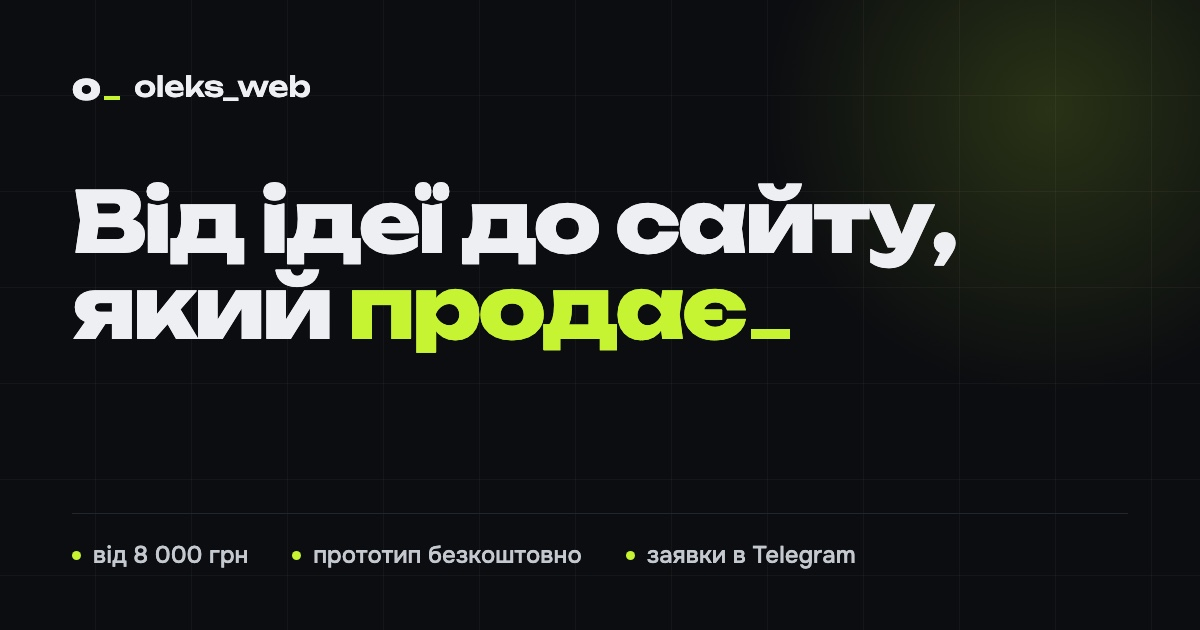
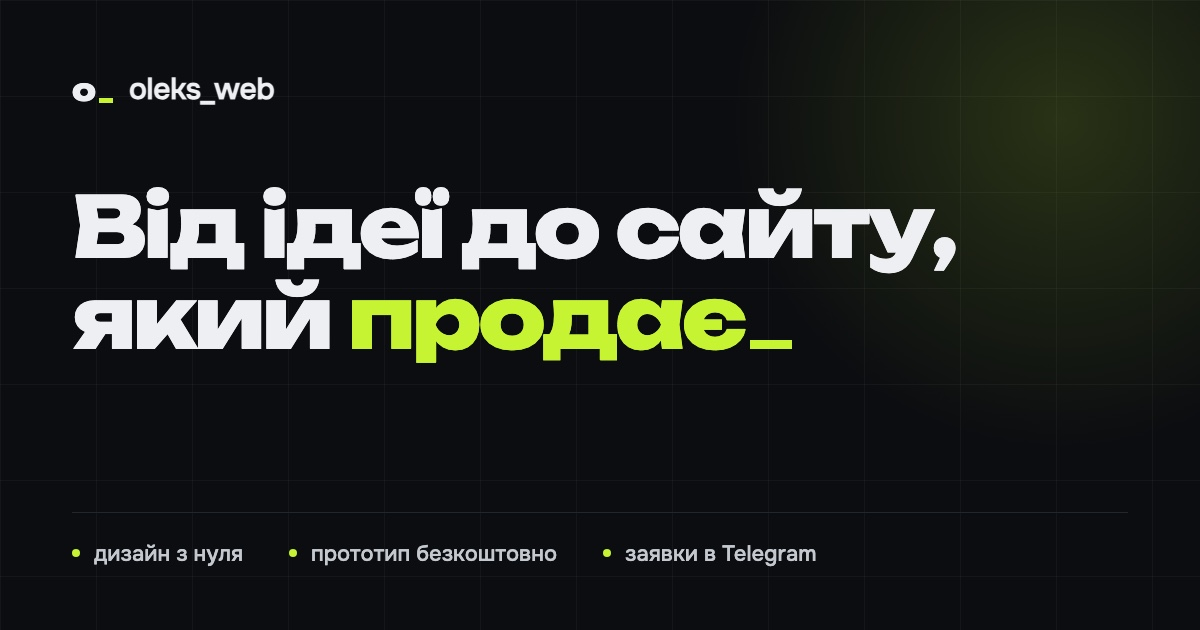
Нові ціни: лендинг від 11 000, багатосторінковий від 16 000, складний від 20 000, бот від 5 000; склад під кожен тариф, без ціни в hero і прев'ю

diff --git a/public/index.html b/public/index.html
@@ -54,7 +54,7 @@
         <a href="https://t.me/LysOleksandr" data-tg="hero" target="_blank" rel="noopener" class="btn">Отримати прототип безкоштовно</a>
       </div>
     </div>
-    <div class="meta reveal d2" data-r><ul class="hfacts"><li>від 8 000 грн</li><li>прототип за 1–3 дні — безкоштовно</li><li>заявки одразу у ваш Telegram</li></ul><span>гортайте ↓</span></div>
+    <div class="meta reveal d2" data-r><ul class="hfacts"><li>дизайн з нуля під ваш бізнес</li><li>прототип за 1–3 дні — безкоштовно</li><li>заявки одразу у ваш Telegram</li></ul><span>гортайте ↓</span></div>
   </section>
 
   <!-- ============ РОБОТИ ============ -->
@@ -151,7 +151,7 @@
       <h2 class="h2">Скільки коштує</h2>
     </div>
 
-    <div class="calc">
+    <div class="calc" data-type="landing">
       <div class="calc-opts">
         <p class="c-label">Що потрібно?</p>
         <div class="seg" role="radiogroup" aria-label="Тип сайту">
@@ -160,29 +160,36 @@
             <span class="o-d">Одна сторінка, яка веде до заявки. Для послуги, акції чи запуску.</span>
           </button>
           <button class="opt" type="button" role="radio" aria-checked="false" data-type="multi">
-            <span class="dot"></span><b>Багатосторінковий сайт</b>
-            <span class="o-d">Послуги, ціни, кейси, контакти — на окремих сторінках. Для компанії з кількома напрямками.</span>
+            <span class="dot"></span><b>Багатосторінковий сайт або каталог</b>
+            <span class="o-d">До 7 сторінок: послуги, ціни, кейси або вітрина товарів. Для компанії з кількома напрямками.</span>
+          </button>
+          <button class="opt" type="button" role="radio" aria-checked="false" data-type="complex">
+            <span class="dot"></span><b>Складний проєкт</b>
+            <span class="o-d">Квізи, калькулятори вартості, онлайн-бронювання, інтеграція з CRM та оплатою.</span>
           </button>
         </div>
         <p class="c-label">Додатково</p>
         <button class="tog" id="botTog" type="button" aria-pressed="false">
           <span class="sw"></span>
           <span class="t-txt"><b>Telegram-бот</b><span class="o-d">Записує клієнтів, відповідає на типові питання або показує каталог.</span></span>
-          <em>+ від 4 000 грн</em>
+          <em>+ від 5 000 грн</em>
         </button>
       </div>
 
       <div class="calc-res" aria-live="polite">
         <p class="c-label">Ваш сайт</p>
-        <p class="c-price"><span class="from">від</span><span id="cPrice">8 000</span><span class="uah">грн</span><span class="cur"></span></p>
+        <p class="c-price"><span class="from">від</span><span id="cPrice">11 000</span><span class="uah">грн</span><span class="cur"></span></p>
         <ul class="c-list" id="cList">
-          <li>Адаптив під телефон</li>
-          <li>Заявки у ваш Telegram</li>
-          <li>Підключення домену й хостингу</li>
-          <li>2 кола правок</li>
+          <li>Дизайн з нуля, без шаблонів</li>
+          <li>Структура й тексти під заявки</li>
+          <li data-t="multi">До 7 сторінок або каталог</li>
+          <li data-t="complex">Квізи, бронювання, CRM, оплата</li>
+          <li data-t="multi complex">SEO — щоб знаходили в Google</li>
+          <li>Заявки в Telegram + пікселі реклами</li>
+          <li>Адаптив, домен, 2 кола правок</li>
           <li class="c-bot">Telegram-бот під ваші задачі</li>
         </ul>
-        <p class="c-term">Термін: <b id="cTerm">1–2 тижні</b></p>
+        <p class="c-term">Термін: <b id="cTerm">5–10 днів</b></p>
         <a href="https://t.me/LysOleksandr" data-tg="price" target="_blank" rel="noopener" class="btn">Дізнатися точну ціну</a>
         <p class="c-free"><span class="dot-l"></span>Прототип першого екрана — безкоштовно, до будь-якої оплати</p>
       </div>
@@ -201,7 +208,7 @@
       </div>
       <div class="q">
         <button class="q-btn" type="button" aria-expanded="false">Скільки часу це займає?<i class="plus" aria-hidden="true"></i></button>
-        <div class="q-a"><div><p>Прототип першого екрана — 1–3 дні. Лендинг під ключ — 1–2 тижні, багатосторінковий — 2–4 тижні. Багато залежить від того, як швидко є матеріали: фото, ціни, інформація про послуги.</p></div></div>
+        <div class="q-a"><div><p>Прототип першого екрана — 1–3 дні. Лендинг під ключ — 5–10 днів, багатосторінковий сайт — 1–2 тижні, складний проєкт — 2–3 тижні. Багато залежить від того, як швидко є матеріали: фото, ціни, інформація про послуги.</p></div></div>
       </div>
       <div class="q">
         <button class="q-btn" type="button" aria-expanded="false">Хто пише тексти?<i class="plus" aria-hidden="true"></i></button>

diff --git a/public/css/style.css b/public/css/style.css
@@ -172,7 +172,7 @@ main>section,.ftr{transition:opacity .6s}
 .calc{display:grid;grid-template-columns:minmax(0,7fr) minmax(0,5fr);gap:24px;margin-top:64px;align-items:stretch}
 .c-label{font-family:var(--f-mono);font-size:13px;color:var(--muted);margin-bottom:14px}
 .calc-opts .c-label:not(:first-child){margin-top:36px}
-.seg{display:grid;grid-template-columns:1fr 1fr;gap:16px}
+.seg{display:grid;grid-template-columns:1fr;gap:12px}
 .opt,.tog{position:relative;display:block;width:100%;text-align:left;padding:26px 26px 26px 64px;border:1px solid var(--line);border-radius:20px;background:var(--surface);
   transition:border-color .25s,background .25s}
 .opt:hover,.tog:hover{border-color:var(--muted)}
@@ -200,6 +200,8 @@ main>section,.ftr{transition:opacity .6s}
 .c-list li{position:relative;padding:12px 0 12px 26px;border-bottom:1px solid var(--line);font-size:16px;color:var(--text2)}
 .c-list li::before{content:"";position:absolute;left:2px;top:50%;width:10px;height:5px;margin-top:-5px;border-left:2px solid var(--lime);border-bottom:2px solid var(--lime);transform:rotate(-45deg)}
 .c-list .c-bot{display:none;color:var(--text)}
+.c-list [data-t]{display:none}
+.calc[data-type=multi] .c-list [data-t~=multi],.calc[data-type=complex] .c-list [data-t~=complex]{display:block;animation:pop .35s var(--out) both}
 .calc.bot .c-list .c-bot{display:block;animation:pop .35s var(--out) both}
 .c-term{margin-top:20px;font-size:16px;color:var(--muted)}
 .c-term b{color:var(--text);font-weight:600}
@@ -349,9 +351,10 @@ main>section,.ftr{transition:opacity .6s}
   .fs p{margin-top:6px;font-size:16px}
 
   /* --- калькулятор: компактно --- */
-  .seg{grid-template-columns:1fr 1fr;gap:10px}
-  .opt{padding:16px 10px;text-align:center;border-radius:16px}
-  .opt .dot,.opt .o-d,.tog .o-d{display:none}
+  .seg{gap:10px}
+  .opt{padding:15px 16px 15px 50px;border-radius:16px}
+  .opt .dot{left:16px;top:50%;margin-top:-11px}
+  .opt .o-d,.tog .o-d{display:none}
   .opt b,.tog b{font-family:var(--f-body);font-weight:600;font-size:16px;letter-spacing:0}
   .calc-opts .c-label:not(:first-child){margin-top:22px}
   .tog{padding:14px 16px;gap:12px;flex-wrap:nowrap;border-radius:16px}

diff --git a/public/js/main.js b/public/js/main.js
@@ -215,7 +215,8 @@ else new IntersectionObserver(([e], o) => { if(e.isIntersecting){ flow.classList
 
 /* ================= ЦІНИ: калькулятор ================= */
 const calc = document.querySelector('.calc'), cPrice = $('cPrice'), cTerm = $('cTerm'), botTog = $('botTog');
-const BASE = {landing:8000, multi:16000}, BOT = 4000, TERM = {landing:'1–2 тижні', multi:'2–4 тижні'};
+const BASE = {landing:11000, multi:16000, complex:20000}, BOT = 5000, TERM = {landing:'5–10 днів', multi:'1–2 тижні', complex:'2–3 тижні'};
+const NAME = {landing:'лендинг', multi:'багатосторінковий сайт', complex:'складний проєкт'};
 let cType = 'landing', cBot = false, shown = BASE.landing;
 const fmt = n => n.toLocaleString('uk-UA').replace(/\s/g, ' ');
 function countTo(to){
@@ -231,6 +232,7 @@ function updCalc(){
   countTo(BASE[cType] + (cBot ? BOT : 0));
   cTerm.textContent = TERM[cType];
   calc.classList.toggle('bot', cBot);
+  calc.dataset.type = cType;
   setTg();
 }
 document.querySelectorAll('.opt').forEach(o => o.addEventListener('click', () => {
@@ -250,7 +252,7 @@ const TG_TEXT = {
   final:  'Привіт! Хочу сайт для свого бізнесу. Коротко про нього: ',
   footer: 'Привіт, Олександре! Хочу обговорити сайт.',
   price:  () => {
-    const what = (cType === 'landing' ? 'лендинг' : 'багатосторінковий сайт') + (cBot ? ' + Telegram-бот' : '');
+    const what = NAME[cType] + (cBot ? ' + Telegram-бот' : '');
     return `Привіт! Хочу дізнатися точну ціну: ${what} (у калькуляторі від ${fmt(BASE[cType] + (cBot ? BOT : 0))} грн). Мій бізнес: `;
   }
 };

diff --git a/docs/texts.md b/docs/texts.md
@@ -17,7 +17,7 @@
 
 ## 1. Hero
 
-**Факти під кнопками:** від 8 000 грн · прототип за 1–3 дні — безкоштовно · заявки одразу у ваш Telegram
+**Факти під кнопками:** дизайн з нуля під ваш бізнес · прототип за 1–3 дні — безкоштовно · заявки одразу у ваш Telegram
 
 **H1:** Від ідеї до сайту, який продає_
 
@@ -80,15 +80,14 @@
 
 **Підзаголовок:** Точну ціну назву після короткої переписки про ваш бізнес.
 
-| Тариф | Ціна | Для чого |
-|---|---|---|
-| **Лендинг** | від 8 000 грн | Одна сторінка, яка веде до заявки. Для послуги, акції чи запуску. |
-| **Багатосторінковий сайт** | від 16 000 грн | Послуги, ціни, кейси, контакти — на окремих сторінках. Для компанії з кількома напрямками. |
-| **Сайт + Telegram-бот** | від 12 000 грн | Сайт і бот, який записує клієнтів, відповідає на типові питання або показує каталог. |
+| Тариф | Ціна | Термін | Для чого |
+|---|---|---|---|
+| **Лендинг** | від 11 000 грн | 5–10 днів | Одна сторінка, яка веде до заявки. Для послуги, акції чи запуску. |
+| **Багатосторінковий сайт або каталог** | від 16 000 грн | 1–2 тижні | До 7 сторінок: послуги, ціни, кейси або вітрина товарів. |
+| **Складний проєкт** | від 20 000 грн | 2–3 тижні | Квізи, калькулятори вартості, онлайн-бронювання, CRM та оплата. |
+| + **Telegram-бот** | від 5 000 грн | — | Записує клієнтів, відповідає на типові питання, показує каталог. |
 
-**На сайті — калькулятор:** вибір «Лендинг / Багатосторінковий» + перемикач «Telegram-бот + від 4 000 грн». Лендинг+бот = від 12 000, багатосторінковий+бот = від 20 000.
-
-**У кожному тарифі:** адаптив під телефон · заявки у ваш Telegram · підключення домену й хостингу · 2 кола правок
+**Що входить (змінюється під тариф):** дизайн з нуля без шаблонів · структура й тексти під заявку · (багатосторінковий: до 7 сторінок або каталог; багатосторінковий/складний: SEO) · (складний: квізи, бронювання, CRM, оплата) · заявки в Telegram + пікселі реклами · адаптив, домен, хостинг, 2 кола правок
 
 **Акцент:** Прототип першого екрана — безкоштовно, до будь-якої оплати.
 
@@ -104,7 +103,7 @@
 Ви нічого не платите і нічого не винні. Або скажіть, що не так, — спробую інший підхід.
 
 **Скільки часу це займає?**
-Прототип першого екрана — 1–3 дні. Лендинг під ключ — 1–2 тижні, багатосторінковий — 2–4 тижні. Багато залежить від того, як швидко є матеріали: фото, ціни, інформація про послуги.
+Прототип першого екрана — 1–3 дні. Лендинг під ключ — 5–10 днів, багатосторінковий сайт — 1–2 тижні, складний проєкт — 2–3 тижні. Багато залежить від того, як швидко є матеріали: фото, ціни, інформація про послуги.
 
 **Хто пише тексти?**
 Найкраще — разом: ви розповідаєте про бізнес, я перетворюю це на тексти, які продають. Немає часу — напишу сам, ви лише погодите.
